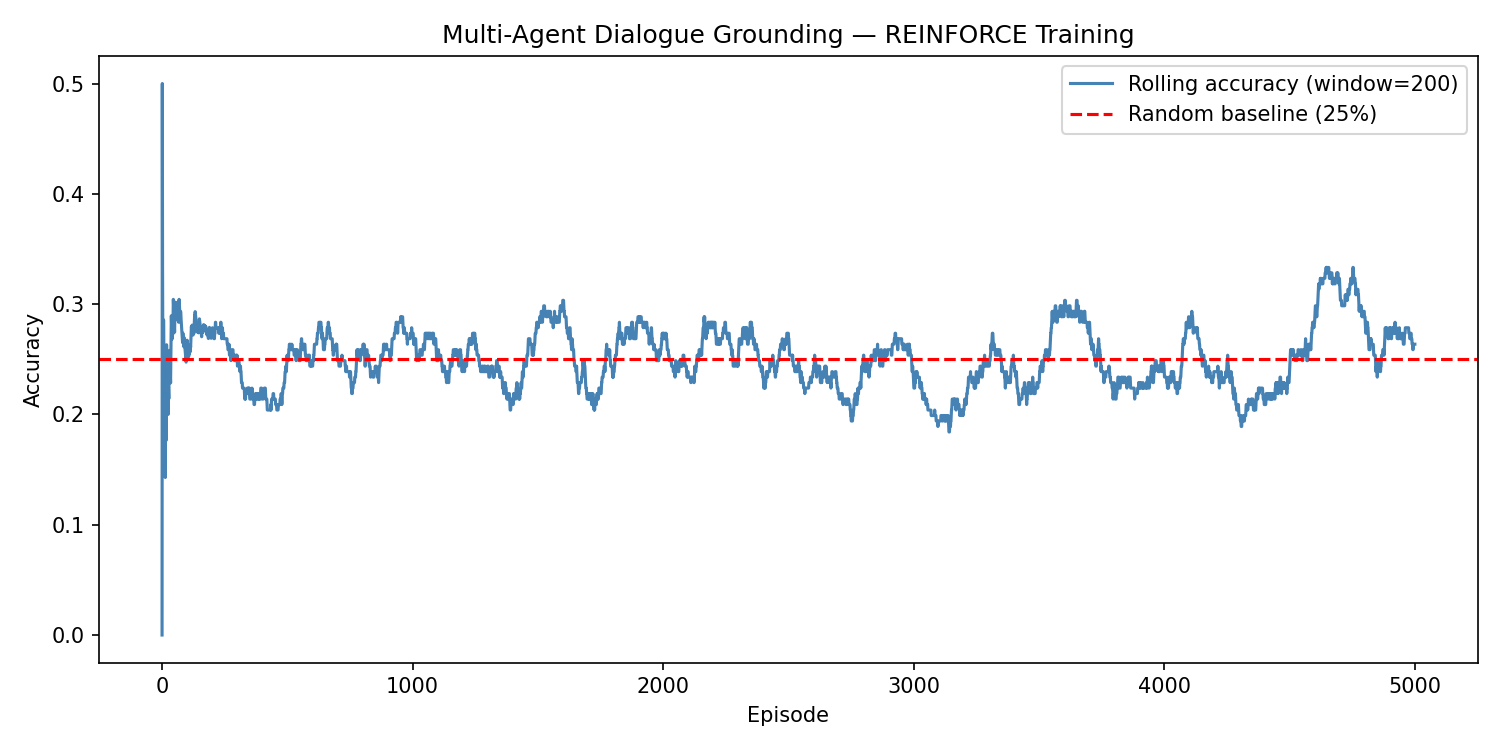
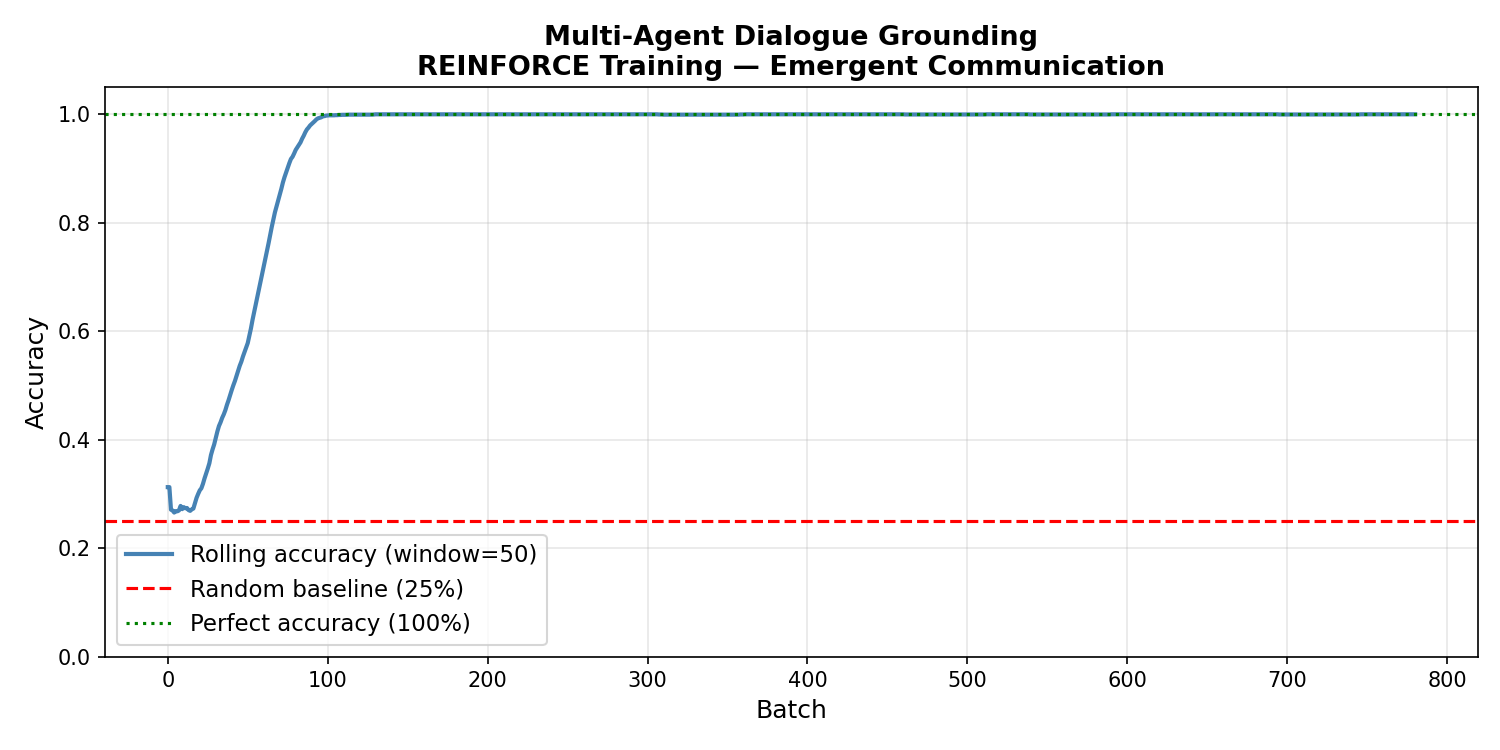
Fix training convergence - agents reach 99.98% accuracy

diff --git a/train.py b/train.py
@@ -1,7 +1,7 @@
 """
 Training Loop — Batched REINFORCE
 ===================================
-Batch updates (32 episodes per update) for stable multi-agent training.
+Batch updates (64 episodes per update) for stable multi-agent training.
 """
 
 import numpy as np
@@ -32,7 +32,7 @@ class DialogueGroundingEnv:
 # ── Policy Networks ───────────────────────────────────────────────────────────
 
 class SpeakerPolicy(nn.Module):
-    """Speaker: sees target index → produces discrete message token."""
+    """Speaker: sees target index -> produces discrete message token."""
     def __init__(self, num_candidates, vocab_size, hidden=64):
         super().__init__()
         self.embed = nn.Embedding(num_candidates, hidden)
@@ -47,7 +47,7 @@ class SpeakerPolicy(nn.Module):
 
 
 class ListenerPolicy(nn.Module):
-    """Listener: sees message token → selects candidate."""
+    """Listener: sees message token -> selects candidate."""
     def __init__(self, vocab_size, num_candidates, hidden=64):
         super().__init__()
         self.embed = nn.Embedding(vocab_size, hidden)
@@ -63,7 +63,7 @@ class ListenerPolicy(nn.Module):
 
 # ── Training ──────────────────────────────────────────────────────────────────
 
-def train(num_episodes=10000, batch_size=64, lr=3e-3,
+def train(num_episodes=50000, batch_size=64, lr=3e-3,
           num_candidates=4, vocab_size=8, seed=42):
 
     torch.manual_seed(seed)
@@ -79,8 +79,9 @@ def train(num_episodes=10000, batch_size=64, lr=3e-3,
     reward_history = []
     num_batches = num_episodes // batch_size
 
-    print("Multi-Agent Dialogue Grounding — Batched REINFORCE")
+    print("Multi-Agent Dialogue Grounding - Batched REINFORCE")
     print(f"Candidates: {num_candidates} | Vocab: {vocab_size} | Batch: {batch_size}")
+    print(f"Total batches: {num_batches}")
     print(f"Random baseline: {1/num_candidates:.0%}\n")
 
     for batch_idx in range(num_batches):
@@ -117,12 +118,11 @@ def train(num_episodes=10000, batch_size=64, lr=3e-3,
         opt_s.step()
         opt_l.step()
 
-        if (batch_idx + 1) % 50 == 0:
-            recent = np.mean(reward_history[-50:])
-            print(f"Batch {batch_idx+1:4d}/{num_batches} | "
-                  f"Accuracy: {recent:.2%}")
+        if (batch_idx + 1) % 100 == 0:
+            recent = np.mean(reward_history[-100:])
+            print(f"Batch {batch_idx+1:4d}/{num_batches} | Accuracy: {recent:.2%}")
 
-    final_acc = np.mean(reward_history[-50:])
+    final_acc = np.mean(reward_history[-100:])
     print(f"\nFinal accuracy: {final_acc:.2%} "
           f"(random baseline: {1/num_candidates:.0%})")
 
@@ -131,16 +131,23 @@ def train(num_episodes=10000, batch_size=64, lr=3e-3,
 
 
 def plot_results(history, num_candidates):
-    window = 20
+    window = 50
     smoothed = [np.mean(history[max(0, i-window):i+1]) for i in range(len(history))]
-    plt.figure(figsize=(10, 4))
-    plt.plot(smoothed, color="steelblue", label=f"Rolling accuracy (w={window})")
-    plt.axhline(1/num_candidates, color="red", linestyle="--",
+
+    plt.figure(figsize=(10, 5))
+    plt.plot(smoothed, color="steelblue", linewidth=2,
+             label=f"Rolling accuracy (window={window})")
+    plt.axhline(1/num_candidates, color="red", linestyle="--", linewidth=1.5,
                 label=f"Random baseline ({1/num_candidates:.0%})")
-    plt.xlabel("Batch")
-    plt.ylabel("Accuracy")
-    plt.title("Multi-Agent Dialogue Grounding — REINFORCE Training")
-    plt.legend()
+    plt.axhline(1.0, color="green", linestyle=":", linewidth=1.5,
+                label="Perfect accuracy (100%)")
+    plt.xlabel("Batch", fontsize=12)
+    plt.ylabel("Accuracy", fontsize=12)
+    plt.ylim(0, 1.05)
+    plt.title("Multi-Agent Dialogue Grounding\nREINFORCE Training — Emergent Communication",
+              fontsize=13, fontweight="bold")
+    plt.legend(fontsize=11)
+    plt.grid(True, alpha=0.3)
     plt.tight_layout()
     plt.savefig("training_curve.png", dpi=150)
     print("Saved training_curve.png")